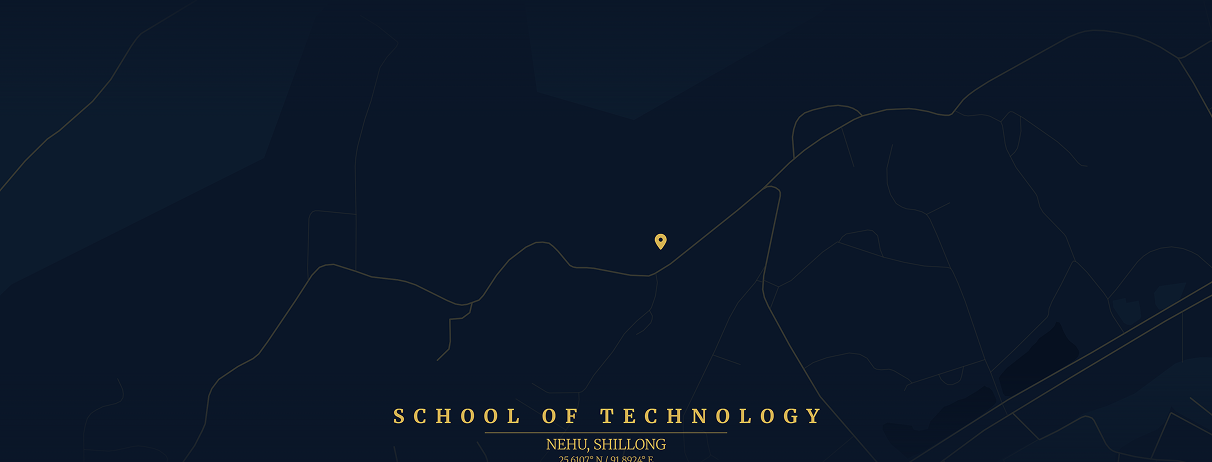
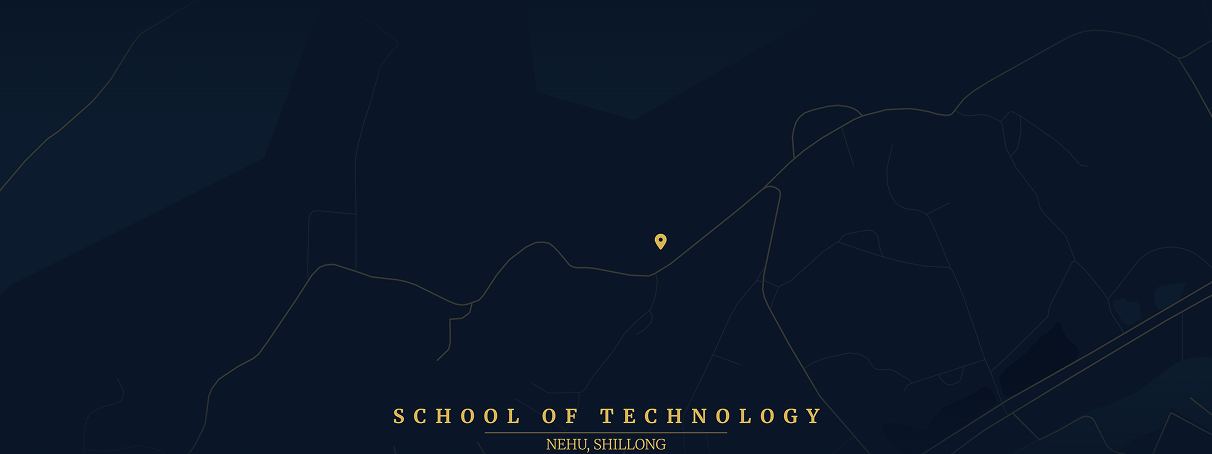
Fixed UI and Bugs 3.9

diff --git a/src/pages/AlumniViewAll.jsx b/src/pages/AlumniViewAll.jsx
@@ -34,7 +34,8 @@ const AlumniViewAll = () => {
         const element = document.getElementById(targetId);
         if (element) {
           const yOffset = -100;
-          const y = element.getBoundingClientRect().top + window.scrollY + yOffset;
+          const y =
+            element.getBoundingClientRect().top + window.scrollY + yOffset;
           window.scrollTo({ top: y, behavior: "smooth" });
         }
       }, 100);
@@ -88,19 +89,19 @@ const AlumniViewAll = () => {
       {/* Background Radial Glow */}
       <div className="orange-glow-top" aria-hidden="true" />
 
+      {/* Back Link (Fixed outside stacking contexts to prevent overlap) */}
+      <button
+        onClick={() => navigate("/Alumni")}
+        className="fixed left-4 md:left-8 top-16 md:top-20 z-[100] hidden lg:inline-flex items-center justify-center rounded-full bg-zinc-100 p-3 hover:bg-zinc-200 transition-colors cursor-pointer min-h-[44px] min-w-[44px] shadow-md"
+        aria-label="Back to Alumni page"
+      >
+        <ArrowLeft className="h-4 w-4 text-brand-primary" />
+      </button>
+
       {/* ========================================================================= */}
       {/* HEADER SECTION */}
       {/* ========================================================================= */}
       <section className="relative z-10 mx-auto max-w-screen-xl px-4 pt-28 sm:pt-32 pb-6 sm:px-6 md:pt-36 lg:px-8">
-        {/* Back Link */}
-        <button
-          onClick={() => navigate("/Alumni")}
-          className="mb-8 inline-flex items-center justify-center rounded-full bg-zinc-100 p-3 hover:bg-zinc-200 transition-colors cursor-pointer min-h-[44px] min-w-[44px]"
-          aria-label="Back to Alumni page"
-        >
-          <ArrowLeft className="h-4 w-4 text-brand-primary" />
-        </button>
-
         <div className="space-y-2">
           <span className="inline-block font-sans text-xs font-semibold tracking-[0.25em] text-brand-primary uppercase">
             SCET Directory
@@ -139,13 +140,13 @@ const AlumniViewAll = () => {
               {cat.alumni.map((alumnus, idx) => (
                 <div
                   key={idx}
-                  className="rounded-2xl p-6 flex flex-col items-center text-center transition-all duration-300 hover:scale-[1.02] shadow-md border bg-zinc-50 border-zinc-200/80 text-black"
+                  className="group rounded-2xl p-6 flex flex-col items-center text-center transition-all duration-300 hover:scale-[1.02] shadow-md border bg-zinc-50 border-zinc-200/80 text-black"
                 >
                   <div className="relative w-24 h-24 rounded-full overflow-hidden border-2 mb-4 border-zinc-300">
                     <img
                       src={alumnus.image}
                       alt={alumnus.name}
-                      className="w-full h-full object-cover filter grayscale"
+                      className="w-full h-full object-cover filter grayscale transition-all duration-300 group-hover:grayscale-0"
                     />
                   </div>
                   <h3 className="font-heading text-lg font-bold leading-tight">

diff --git a/src/components/Impact.jsx b/src/components/Impact.jsx
@@ -23,7 +23,9 @@ const Impact = () => {
     <section id="impact" className="impact section">
       <div className="container flex flex-col items-center">
         <div className="section-header text-center">
-          <span className="section-tagline">we don't just promise</span>
+          <span className="section-tagline self-center !ml-0">
+            we don't just promise
+          </span>
           <h2 className="section-title">
             let our <span className="accent">impact</span> speak for us
           </h2>

diff --git a/src/components/Members.jsx b/src/components/Members.jsx
@@ -81,8 +81,8 @@ const memberGroups = {
         linkedin: "#",
         email: "asif@codemate.com",
         github: "#",
-        imageSrc: "images/teacher_coordinator/ece.png",
-        thumbnailSrc: "images/teacher_coordinator/ecet.png",
+        imageSrc: "images/teacher_coordinator/asifHD.jpeg",
+        thumbnailSrc: "images/teacher_coordinator/asifHD.jpeg",
       },
     ],
   },
